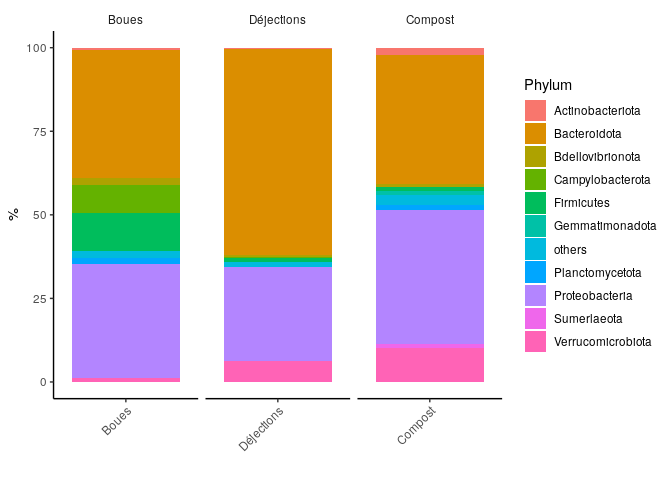
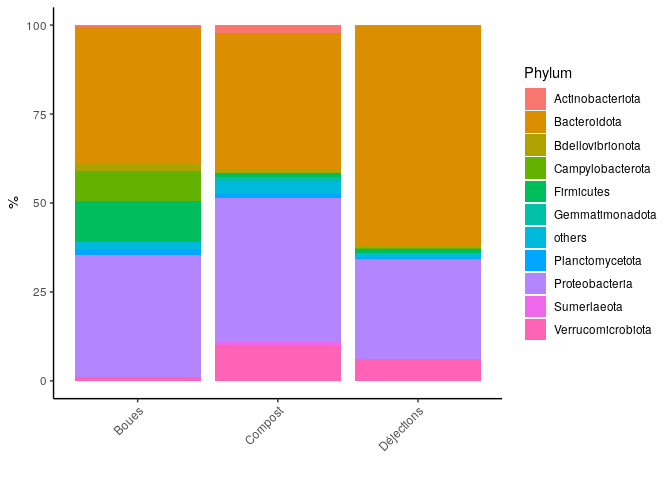
02.01

diff --git a/CC2.md b/CC2.md
@@ -9,126 +9,25 @@ sudo apt-get install -y libbz2-dev
 sudo apt-get install -y liblzma-dev
 ```
 
-    ## sudo: unable to resolve host 012e23cc2553: Name or service not known
-    ## Get:1 http://security.ubuntu.com/ubuntu focal-security InRelease [114 kB]
-    ## Hit:2 http://archive.ubuntu.com/ubuntu focal InRelease
-    ## Get:3 http://archive.ubuntu.com/ubuntu focal-updates InRelease [114 kB]
-    ## Get:4 http://archive.ubuntu.com/ubuntu focal-backports InRelease [108 kB]
-    ## Fetched 336 kB in 1s (394 kB/s)
-    ## Reading package lists...
-    ## sudo: unable to resolve host 012e23cc2553: Name or service not known
-    ## Reading package lists...
-    ## Building dependency tree...
-    ## Reading state information...
-    ## libbz2-dev is already the newest version (1.0.8-2).
-    ## 0 upgraded, 0 newly installed, 0 to remove and 17 not upgraded.
-    ## sudo: unable to resolve host 012e23cc2553: Name or service not known
-    ## Reading package lists...
-    ## Building dependency tree...
-    ## Reading state information...
-    ## liblzma-dev is already the newest version (5.2.4-1ubuntu1).
-    ## 0 upgraded, 0 newly installed, 0 to remove and 17 not upgraded.
-
 ``` r
 if (!requireNamespace("BiocManager", quietly = TRUE))
     install.packages("BiocManager")
 BiocManager::install("BiocStyle")
-```
-
-    ## 'getOption("repos")' replaces Bioconductor standard repositories, see
-    ## '?repositories' for details
-    ## 
-    ## replacement repositories:
-    ##     CRAN: https://packagemanager.rstudio.com/all/__linux__/focal/latest
-
-    ## Bioconductor version 3.14 (BiocManager 1.30.16), R 4.1.2 (2021-11-01)
-
-    ## Warning: package(s) not installed when version(s) same as current; use `force = TRUE` to
-    ##   re-install: 'BiocStyle'
-
-    ## Installation paths not writeable, unable to update packages
-    ##   path: /usr/local/lib/R/library
-    ##   packages:
-    ##     Matrix
-
-``` r
 BiocManager::install("Rhtslib")
 ```
-
-    ## 'getOption("repos")' replaces Bioconductor standard repositories, see
-    ## '?repositories' for details
-    ## 
-    ## replacement repositories:
-    ##     CRAN: https://packagemanager.rstudio.com/all/__linux__/focal/latest
-    ## 
-    ## Bioconductor version 3.14 (BiocManager 1.30.16), R 4.1.2 (2021-11-01)
-
-    ## Warning: package(s) not installed when version(s) same as current; use `force = TRUE` to
-    ##   re-install: 'Rhtslib'
-
-    ## Installation paths not writeable, unable to update packages
-    ##   path: /usr/local/lib/R/library
-    ##   packages:
-    ##     Matrix
 
 ``` r
 library("knitr")
 library("BiocStyle")
 .cran_packages <- c("ggplot2", "gridExtra", "devtools")
 install.packages(.cran_packages) 
-```
-
-    ## Installing packages into '/usr/local/lib/R/site-library'
-    ## (as 'lib' is unspecified)
-
-``` r
 .bioc_packages <- c("dada2", "phyloseq", "DECIPHER", "phangorn")
 BiocManager::install(.bioc_packages)
-```
-
-    ## 'getOption("repos")' replaces Bioconductor standard repositories, see
-    ## '?repositories' for details
-    ## 
-    ## replacement repositories:
-    ##     CRAN: https://packagemanager.rstudio.com/all/__linux__/focal/latest
-
-    ## Bioconductor version 3.14 (BiocManager 1.30.16), R 4.1.2 (2021-11-01)
-
-    ## Warning: package(s) not installed when version(s) same as current; use `force = TRUE` to
-    ##   re-install: 'dada2' 'phyloseq' 'DECIPHER' 'phangorn'
-
-    ## Installation paths not writeable, unable to update packages
-    ##   path: /usr/local/lib/R/library
-    ##   packages:
-    ##     Matrix
-
-``` r
 sapply(c(.cran_packages, .bioc_packages), require, character.only = TRUE)
-```
-
-    ##   ggplot2 gridExtra  devtools     dada2  phyloseq  DECIPHER  phangorn 
-    ##      TRUE      TRUE      TRUE      TRUE      TRUE      TRUE      TRUE
-
-``` r
 install.packages("vegan")
-```
-
-    ## Installing package into '/usr/local/lib/R/site-library'
-    ## (as 'lib' is unspecified)
-
-``` r
 install.packages("dplyr")
-```
-
-    ## Installing package into '/usr/local/lib/R/site-library'
-    ## (as 'lib' is unspecified)
-
-``` r
 install.packages("ggvenn")
 ```
-
-    ## Installing package into '/usr/local/lib/R/site-library'
-    ## (as 'lib' is unspecified)
 
 # Chargement des packages
 
@@ -581,11 +480,11 @@ Arbre phylogénétique
 
 ``` r
 seqs <- getSequences(seqtabNoC)
-names(seqs) <- seqs # This propagates to the tip labels of the tree
+names(seqs) <- seqs 
 alignment <- AlignSeqs(DNAStringSet(seqs), anchor=NA,verbose=FALSE)
 phangAlign <- phyDat(as(alignment, "matrix"), type="DNA")
 dm <- dist.ml(phangAlign)
-treeNJ <- NJ(dm) # Note, tip order != sequence order
+treeNJ <- NJ(dm) 
 fit = pml(treeNJ, data=phangAlign)
 fitGTR <- update(fit, k=4, inv=0.2)
 fitGTR <- optim.pml(fitGTR, model="GTR", optInv=TRUE, optGamma=TRUE,
@@ -632,6 +531,10 @@ ps
     ## sample_data() Sample Data:       [ 15 samples by 2 sample variables ]
     ## tax_table()   Taxonomy Table:    [ 1124 taxa by 7 taxonomic ranks ]
     ## phy_tree()    Phylogenetic Tree: [ 1124 tips and 1122 internal nodes ]
+
+``` r
+ps@sam_data$Types <- factor(ps@sam_data$Types, levels=c("Boues", "Déjections", "Compost")) #pour mettre les échantillons dans le bon ordre
+```
 
 On remplace les séquences par ASV.
 
@@ -682,12 +585,9 @@ ps.melt_sum <- ps.melt %>%      #pour obtenir les mêmes lignes ensemble
     ## `summarise()` has grouped output by 'Types'. You can override using the `.groups` argument.
 
 ``` r
-ps.melt_sum$Types <- factor(ps.melt_sum$Types, levels=c("Boues", "Déjections", "Compost")) #pour mettre les barres dans le bon ordre
-
 ggplot(ps.melt_sum, aes(x = Types, y = Abundance, fill = Phylum)) + 
   geom_bar(stat = "identity", aes(fill=Phylum)) + 
   labs(x="", y="%") +
-  facet_wrap(~Types, scales= "free_x", nrow=1) +
   theme_classic() + 
   theme(strip.background = element_blank(), 
         axis.text.x.bottom = element_text(angle=45,vjust=1,hjust=1))
@@ -700,6 +600,7 @@ abondance supérieure à celle des Sumerlaeota.
 # Alpha-diversité
 
 ``` r
+ps@sam_data$Types <- factor(ps@sam_data$Types, levels=c("Boues", "Déjections", "Compost"))
 plot_richness(ps, x="Types", measures="Chao1")
 ```
 
@@ -765,11 +666,9 @@ plot_ordination(ps.prop, ord.nmds.bray, color="Types", title="Bray-Curtis")
 
 ![](CC2_files/figure-gfm/unnamed-chunk-29-1.png)<!-- --> Les
 échantillons sont bien regroupés par type de prélèvement et les trois
-groupes sont très éloignés les uns des autres, comme on le retrouve sur
+points sont très éloignés les uns des autres, comme on le retrouve sur
 la figure de l’article. Il y a donc très peu d’ASVs en commun entre les
-boues, les déjections, le compost. Après de nombreuses tentatives, je ne
-suis pas parvenu à mettre la légende dans l’ordre (boues, déjections,
-compost).
+boues, les déjections, le compost.
 
 # Diagramme de Venn
 
@@ -811,25 +710,95 @@ répondu : quelle abondance représente les 7 ASVs partagés par les trois
 échantillons ?
 
 ``` r
-#ASVdf <- ASVdf[(ASVdf$Types=="Boues") & (ASVdf$Types=="Déjections") & (ASVdf$Types=="Compost")]
+# Afficher les 7 ASVs en commun
+pres_abs$Types <- as.character(pres_abs$Types)
+pres_abs$Types [pres_abs$Types == "Boues"] <- 1
+pres_abs$Types [pres_abs$Types == "Déjections"] <- 2
+pres_abs$Types [pres_abs$Types == "Compost"] <- 3
+pres_abs$Types <-as.numeric(pres_abs$Types)
+pres_abs <- pres_abs %>%
+group_by(ASV) %>%
+summarise(Types=sum(Types))
+commonASV <- pres_abs$ASV[pres_abs$Types==6]
+commonASV 
+```
+
+    ## [1] "ASV126" "ASV148" "ASV178" "ASV249" "ASV380" "ASV67"  "ASV85"
+
+``` r
+# Sélectionner ces ASV
 ASVdf <- ASVdf %>%
 group_by(ASV) %>%
 summarise(Abondance = sum(Abondance))
-
-sum(ASVdf$Abondance)[ASVdf$Types=="Boues" & ASVdf$Types=="Déjections" & ASVdf$Types=="Compost"]
+print(ASVdf$Abondance[ASVdf$ASV=="ASV126"])
 ```
 
-    ## Warning: Unknown or uninitialised column: `Types`.
-
-    ## Warning: Unknown or uninitialised column: `Types`.
-
-    ## Warning: Unknown or uninitialised column: `Types`.
-
-    ## numeric(0)
+    ## [1] 0.02343588
 
 ``` r
-#fusion <- merge(pres_abs, ASVdf, all.x=TRUE) 
-#fusion <- fusion[,-1]
-#Abond_list <- list(Boues=fusion$Abondance[fusion$Types=="Boues"], Déjections=fusion$Abondance[fusion$Types=="Déjections"], Compost=fusion$Abondance[fusion$Types=="Compost"])
-#ggvenn(Abond_list, fill_color = c("chocolate4", "azure3", "green"), stroke_linetype = "blank", set_name_size = 8)
+commonASVdf <- ASVdf [(ASVdf$ASV=="ASV126" | ASVdf$ASV=="ASV148" | ASVdf$ASV=="ASV178" | ASVdf$ASV=="ASV249" | ASVdf$ASV=="ASV380" | ASVdf$ASV=="ASV67" | ASVdf$ASV=="ASV85"),]
+
+# Représentation graphique   
+abond_df <- data.frame(ASV = c("Communs", "Totaux"), Abondance_pcent = c(sum(commonASVdf$Abondance)/15, 1), ASV_proportion = c(7/1124, 1))
+abond_df
 ```
+
+    ##       ASV Abondance_pcent ASV_proportion
+    ## 1 Communs      0.01115502    0.006227758
+    ## 2  Totaux      1.00000000    1.000000000
+
+``` r
+(abond_df$Abondance_pcent[1]/abond_df$Abondance_pcent[2])*100
+```
+
+    ## [1] 1.115502
+
+``` r
+(abond_df$Abondance_pcent[1]/abond_df$Abondance_pcent[2])/(abond_df$ASV_proportion[1]/abond_df$ASV_proportion[2])
+```
+
+    ## [1] 1.791177
+
+``` r
+library(ggpubr)
+```
+
+    ## 
+    ## Attaching package: 'ggpubr'
+
+    ## The following object is masked from 'package:VennDiagram':
+    ## 
+    ##     rotate
+
+    ## The following object is masked from 'package:ape':
+    ## 
+    ##     rotate
+
+``` r
+ggarrange(
+ggplot(abond_df, aes(x="", y=Abondance_pcent, fill=ASV))+
+geom_bar(width = 1, stat = "identity")+ 
+coord_polar("y", start=0),
+ggplot(abond_df, aes(x="", y=ASV_proportion, fill=ASV))+
+geom_bar(width = 1, stat = "identity")+ 
+coord_polar("y", start=0)
+)
+```
+
+![](CC2_files/figure-gfm/unnamed-chunk-31-1.png)<!-- -->
+
+``` r
+ASVdf <- ASVdf %>% arrange(desc(Abondance))
+ggplot(ASVdf, aes(x=reorder(ASV,Abondance), y=Abondance))+ 
+geom_bar(stat = "identity")+ 
+ggtitle("Abondance des ASV") +
+xlab("ASV")+ 
+geom_segment(aes(x=805, y=0.049668050, xend=1065, yend=0.049668050), arrow=arrow(), size=0.1, color="blue")+
+geom_segment(aes(x=780, y=0.039987351, xend=1040, yend=0.039987351), arrow=arrow(), size=0.1, color="red")+
+geom_segment(aes(x=720, y=0.023435878, xend=980, yend=0.023435878), arrow=arrow(), size=0.1, color="green")+ 
+geom_text(aes(x=765, y=0.057), label="ASV67", size=3, color="blue")+ 
+geom_text(aes(x=740, y=0.042), label="ASV85", size=3, color="red")+ 
+geom_text(aes(x=680, y=0.026), label="ASV126", size=3, color="green")
+```
+
+![](CC2_files/figure-gfm/unnamed-chunk-31-2.png)<!-- -->
